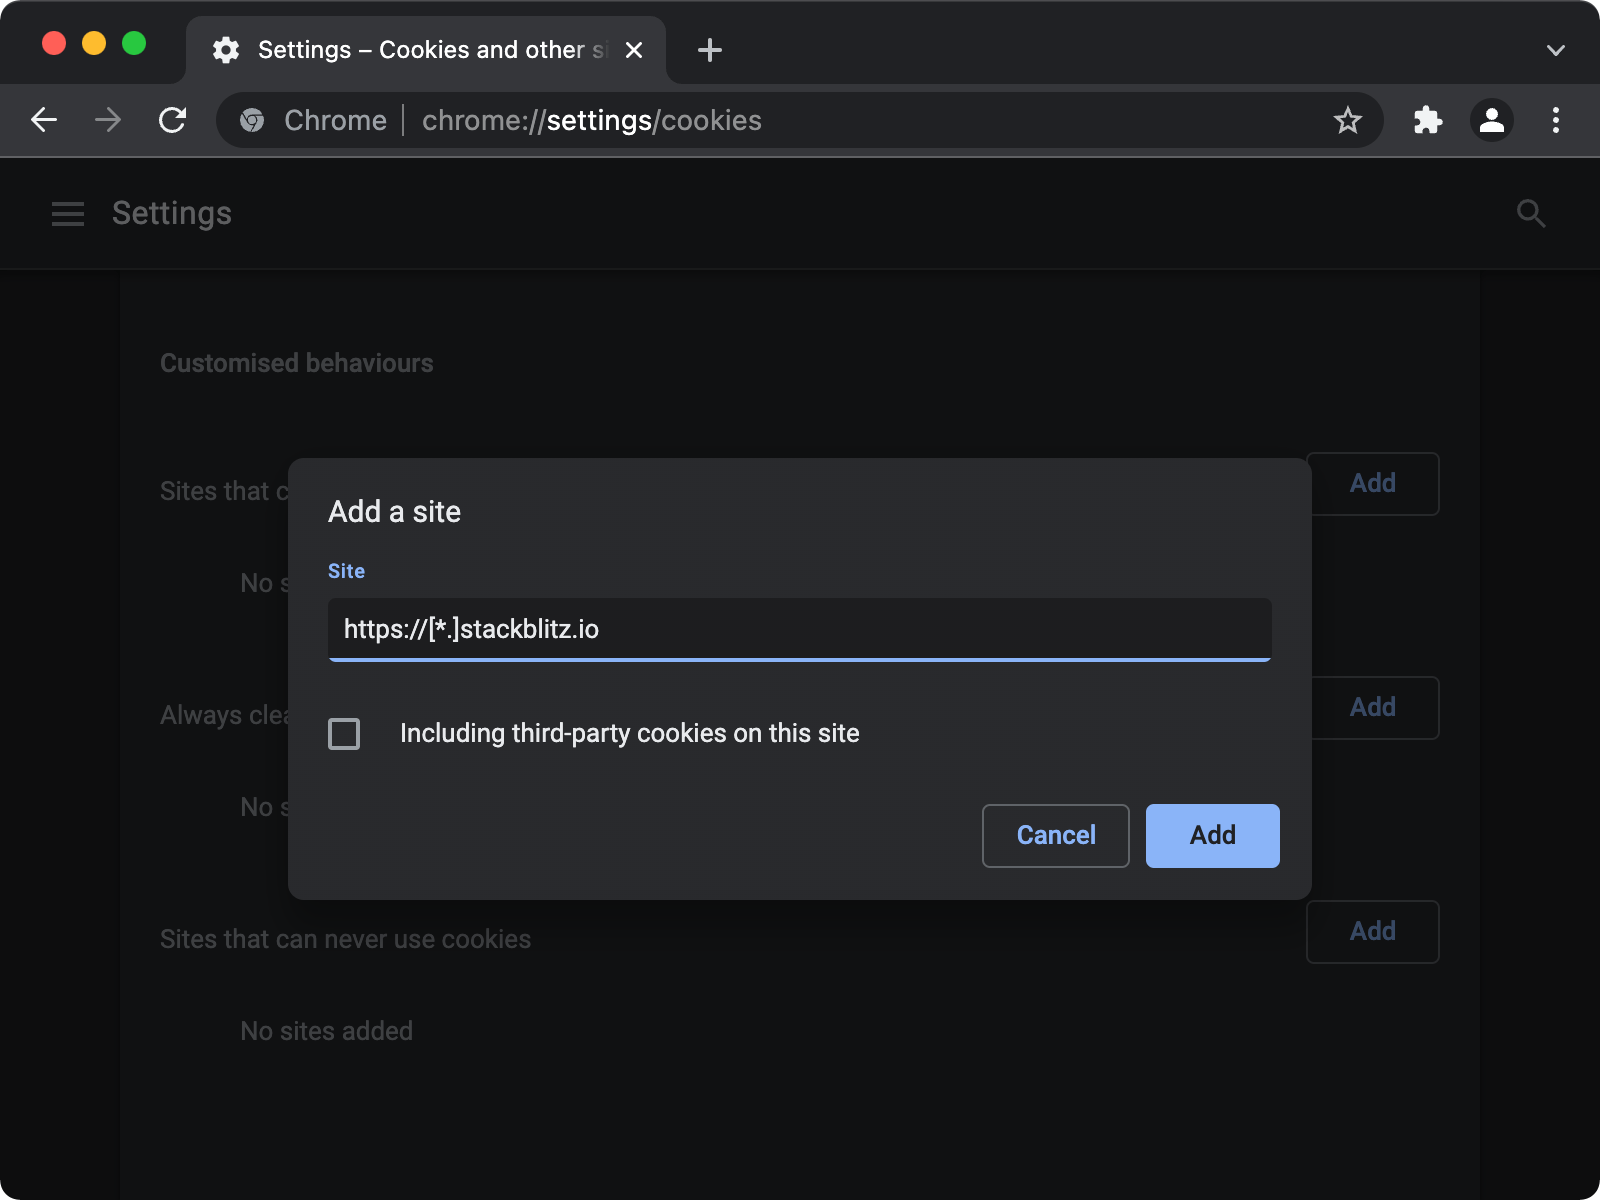
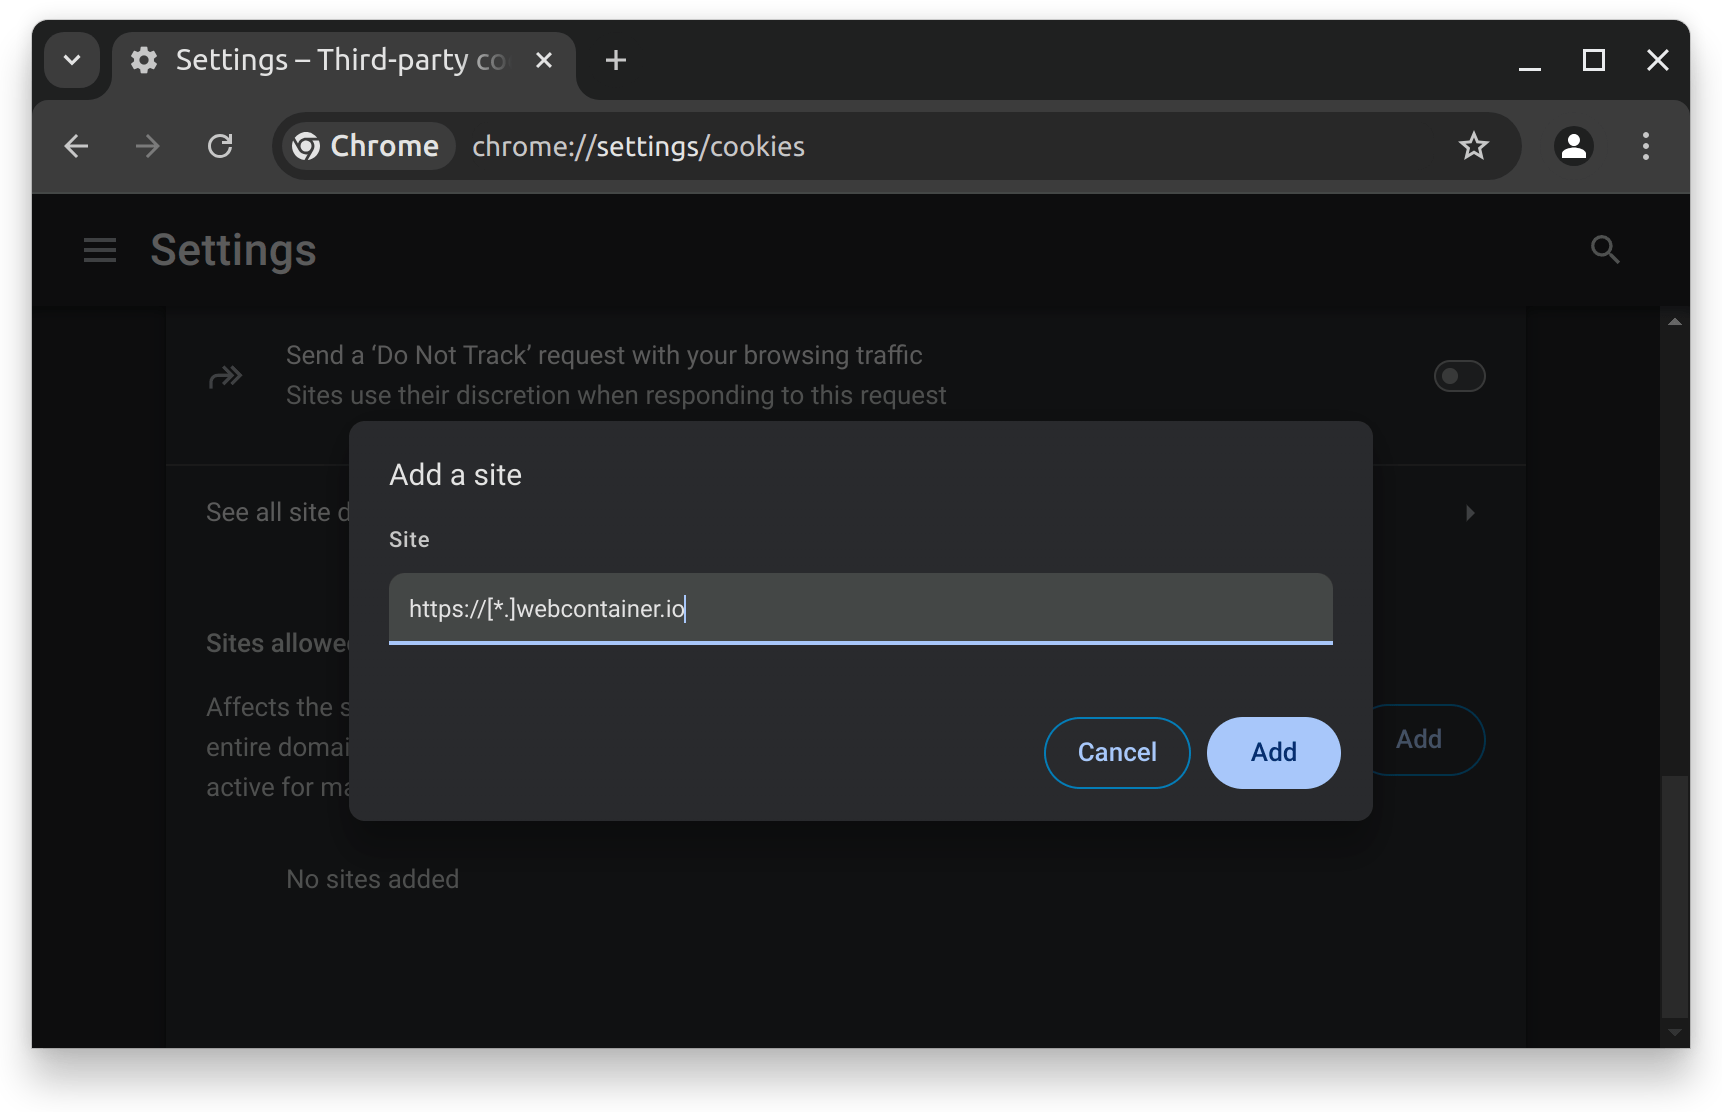
chore: update exceptions for WC API (#233)
* chore: update exceptions for WC API

* chore: update chrome screenshots

* chore: update all remaining screenshots

diff --git a/docs/platform/webcontainers/browser-config.md b/docs/platform/webcontainers/browser-config.md
@@ -30,6 +30,7 @@ This can happen automatically if your popups settings, [chrome://settings/conten
 
 ```
 https://[*.]webcontainer.io
+https://[*.]webcontainer-api.io
 ```
 
 <img class="mx-auto" alt="Chrome popups settings showing the *.webcontainer.io origins as exceptions" src="./assets/chrome-settings-popups.png" width="800" height="502.37" />
@@ -40,6 +41,7 @@ Lastly, if Chrome's [memory saver][CHROME_MEMORY_SAVER] is turned on, this step 
 
 ```
 https://webcontainer.io
+https://webcontainer-api.io
 https://stackblitz.com
 ```
 
@@ -70,6 +72,7 @@ To allow all StackBlitz projects to use Service Workers, go to your browser’s 
 ```
 https://[*.]stackblitz.io
 https://[*.]webcontainer.io
+https://[*.]webcontainer-api.io
 ```
 
 For instance, in Chrome, go to `chrome://settings/cookies` and add those exceptions in the “Sites that can always use cookies” section.
@@ -123,6 +126,7 @@ To add exceptions for StackBlitz, scroll down to the “Cookies and Site Data”
 ```
 https://stackblitz.io
 https://webcontainer.io
+https://webcontainer-api.io
 ```
 
 <img
@@ -142,6 +146,7 @@ This can happen automatically if your popups settings, [about:preferences#privac
 
 ```
 https://webcontainer.io
+https://webcontainer-api.io
 ```
 
 <img alt="Firefox popups settings showing the webcontainer.io site allowed as an exception" src="./assets/firefox-settings-popups.png" width="800" height="649" />
